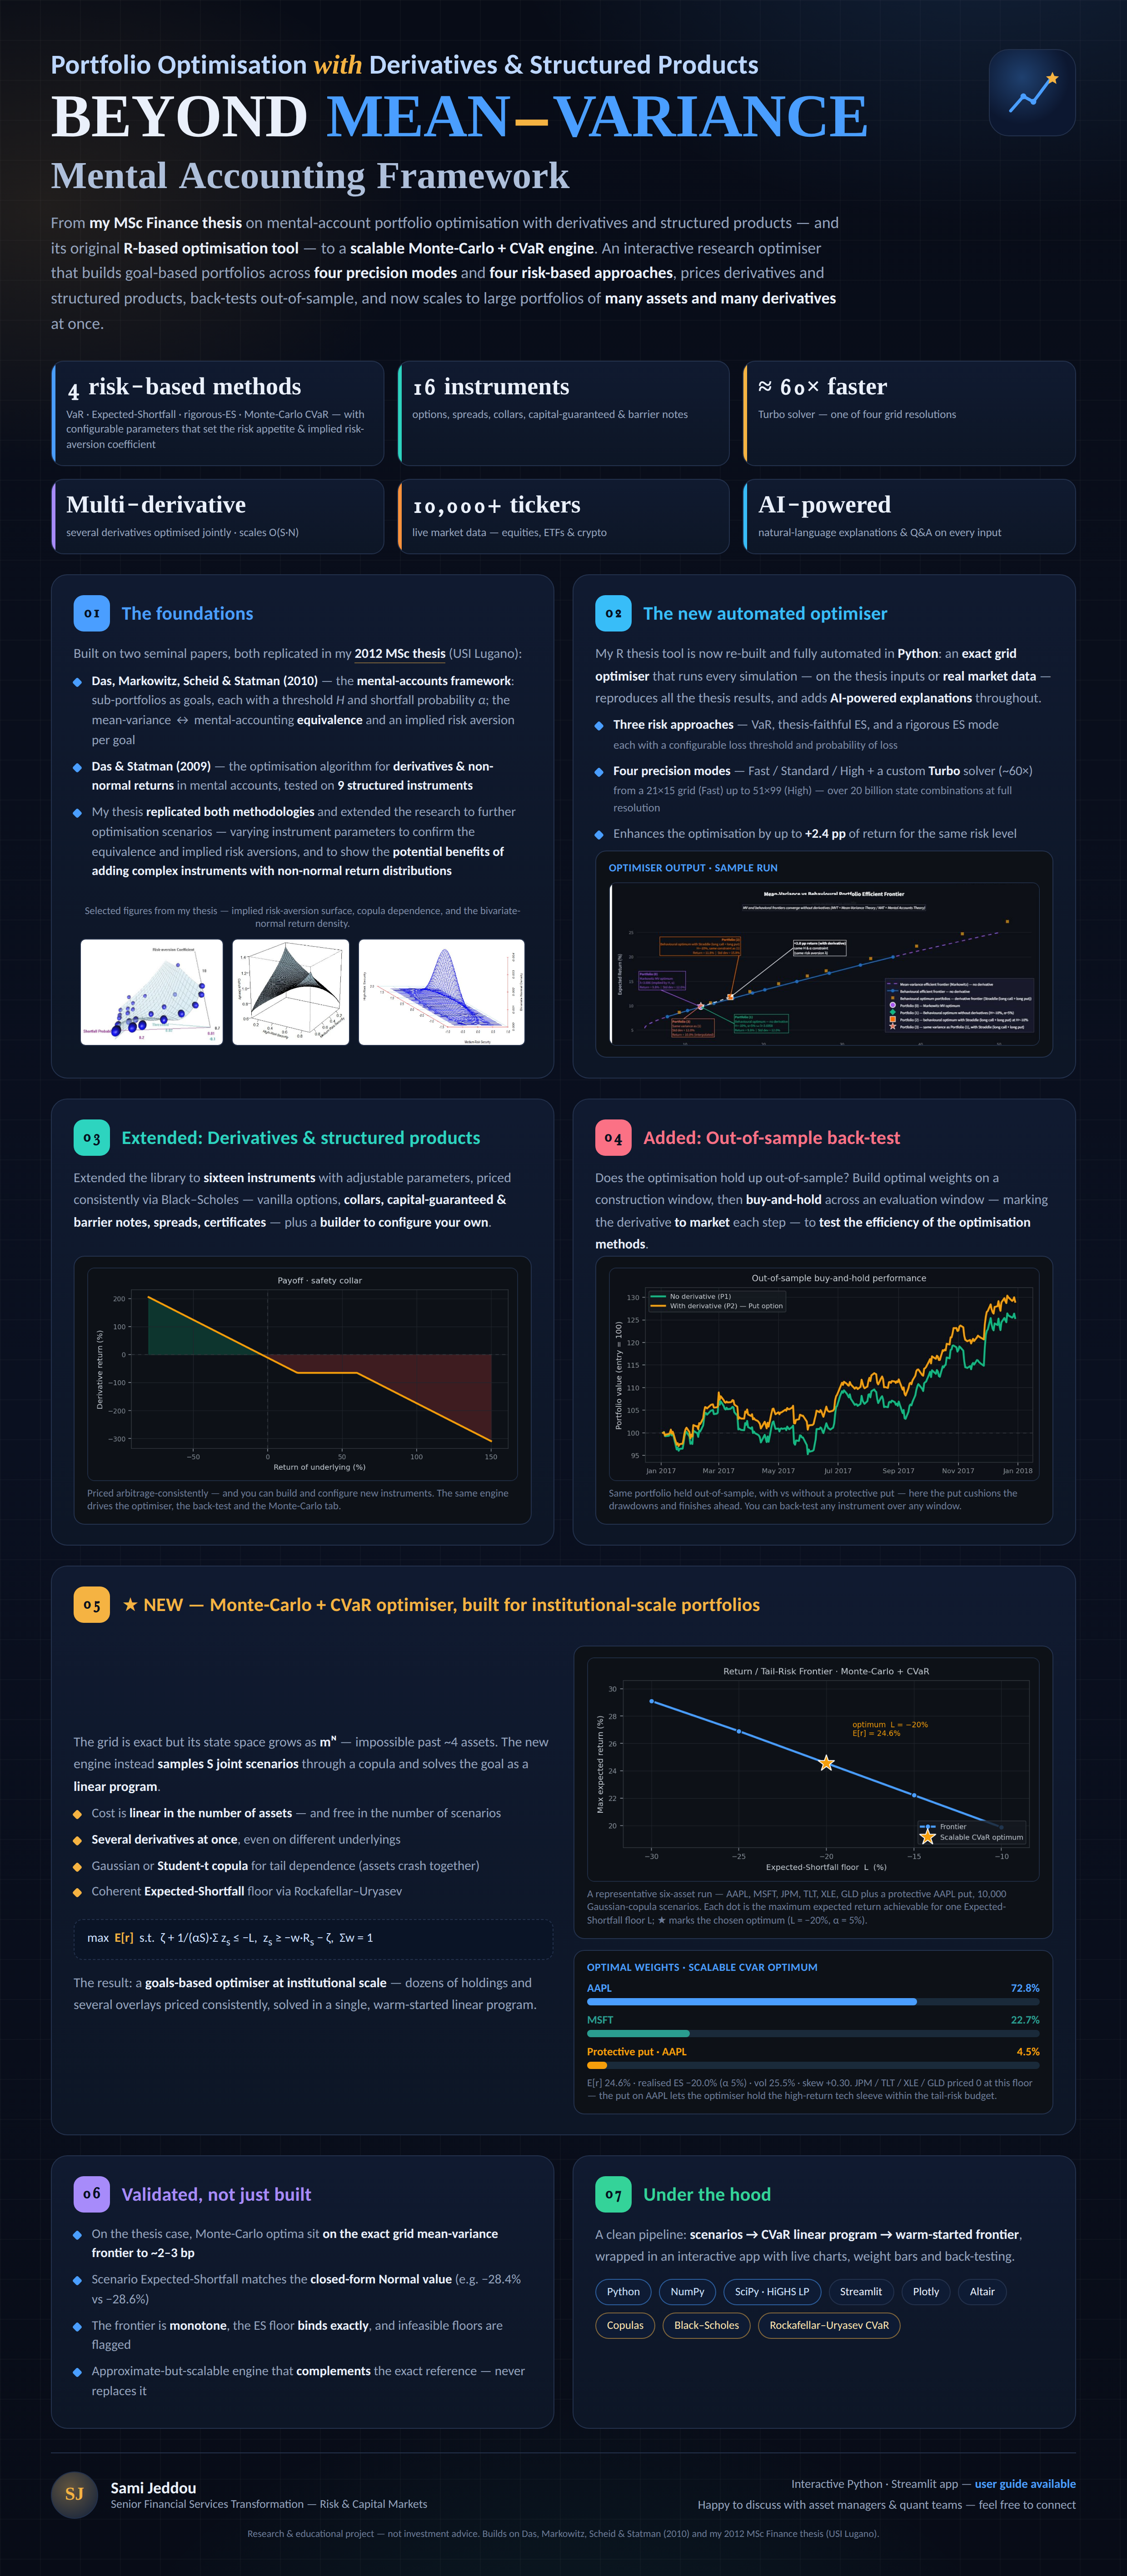
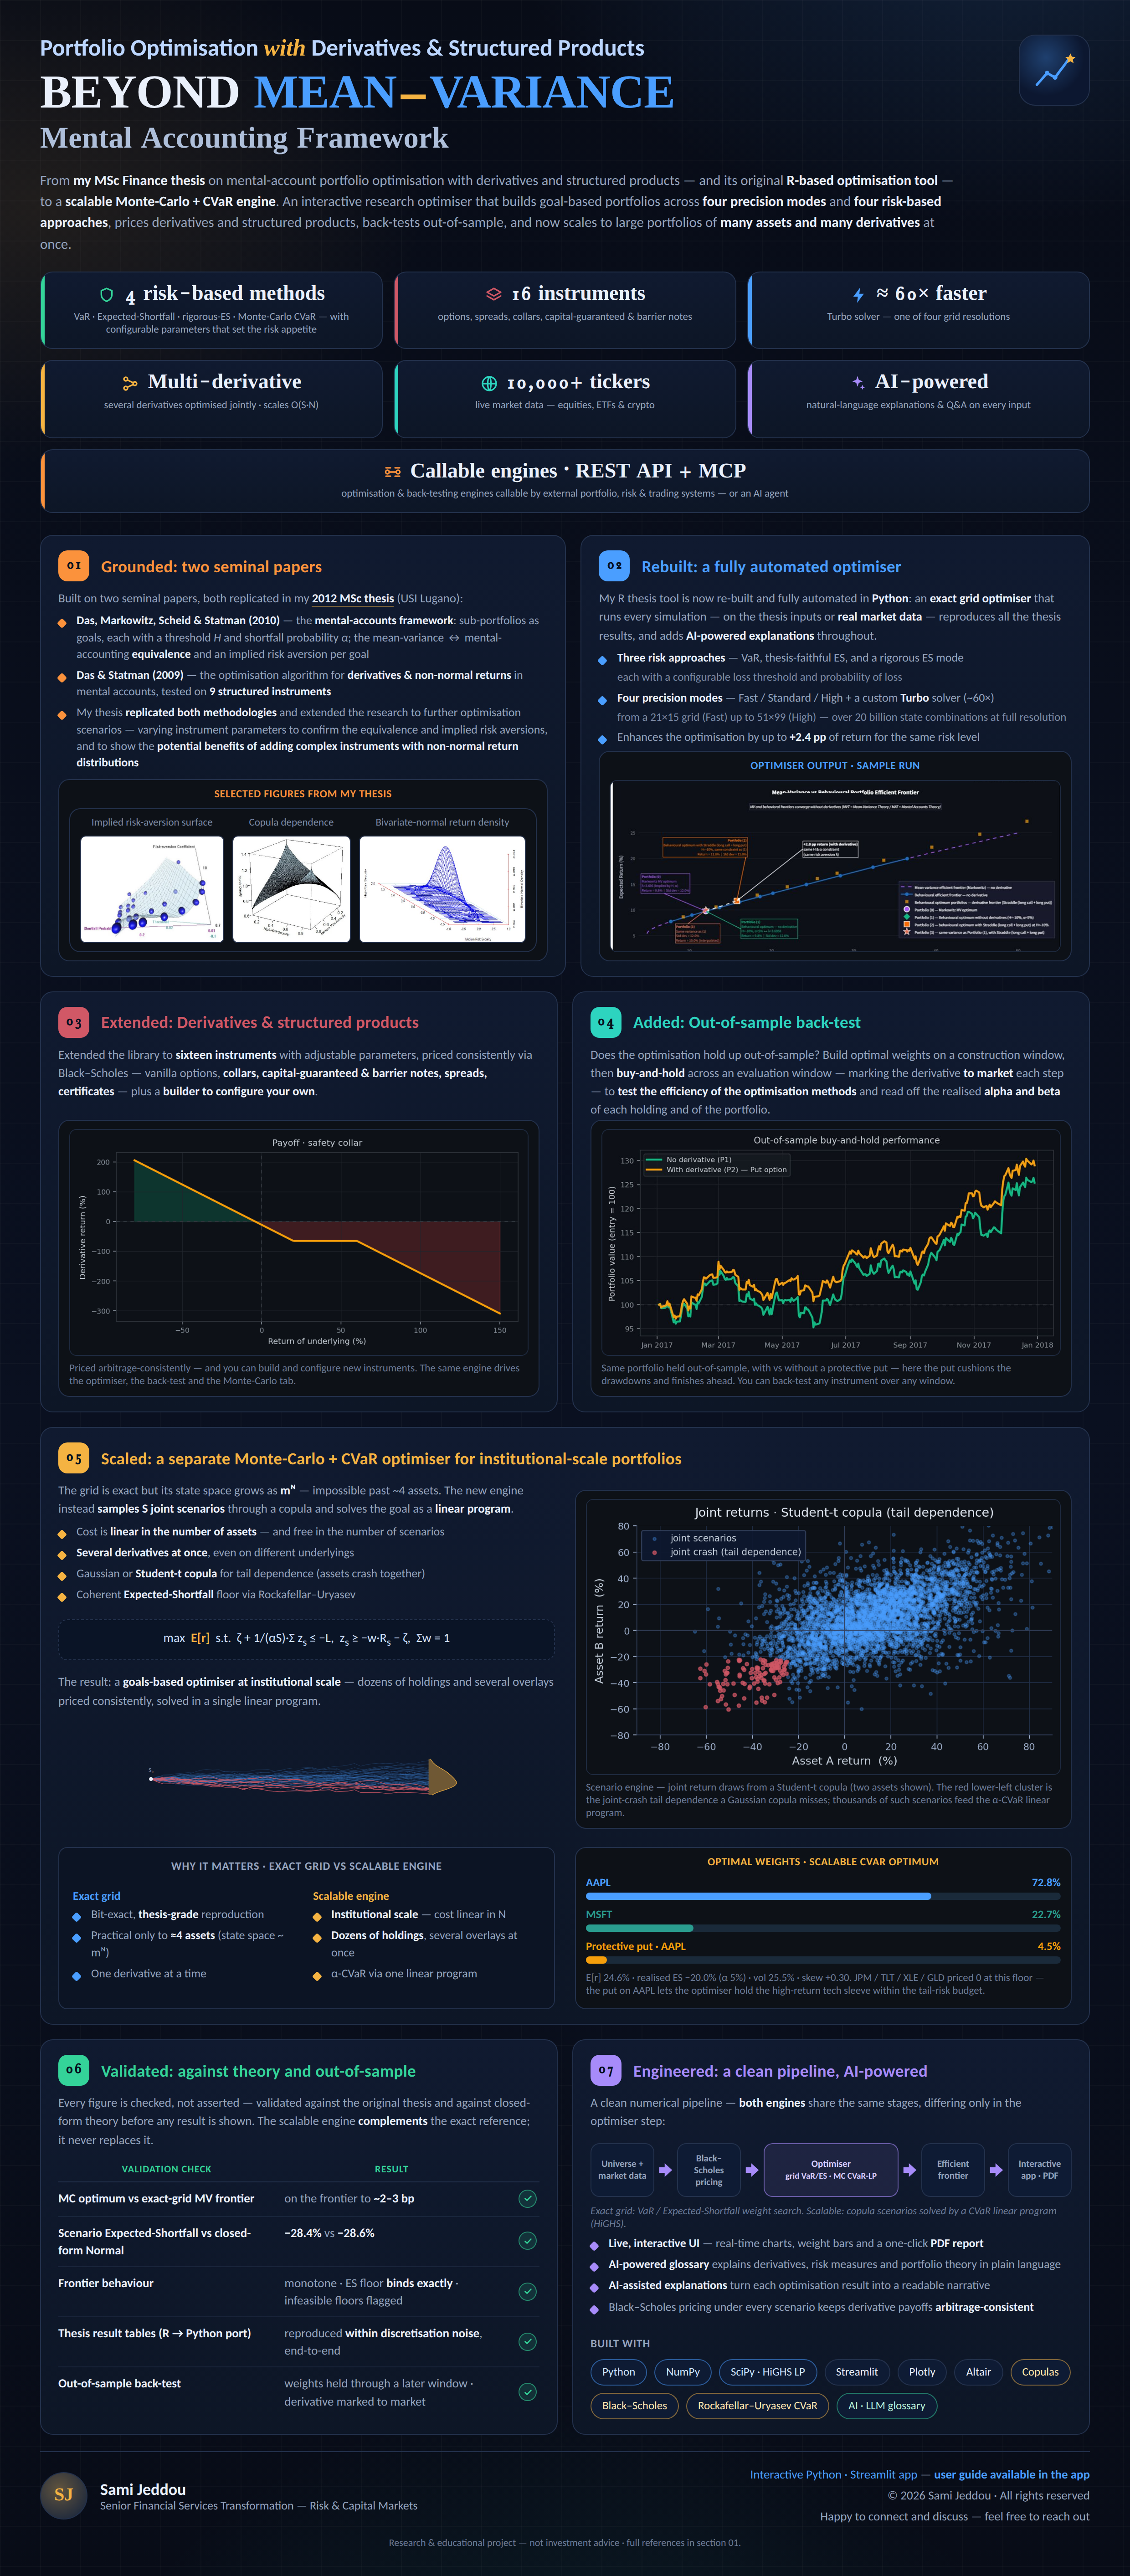
Add files via upload

diff --git a/app.py b/app.py
@@ -1,3 +1,7 @@
+# © 2026 Sami Jeddou. All rights reserved.
+# Published publicly for demonstration and evaluation only — no license is granted.
+# Copying, modification, redistribution, or reuse (in whole or in part) without the
+# author's prior written permission is prohibited.
 """  # v4
 Behavioral Portfolio Optimizer — Streamlit Dashboard
 Full version with: live market data, manual input, CSV upload,
@@ -3768,7 +3772,7 @@ The chart shows the efficient frontiers and up to four portfolio markers (see sa
         '<div style="text-align:center;color:#556a8a;font-size:.75rem;margin-top:2rem;padding:.6rem">'
         '⚠️ For educational &amp; research purposes only — not financial advice. '
         'Based on Das &amp; Statman (2009), Das, Markowitz, Scheid &amp; Statman (2010) and Jeddou (2012). '
-        'See <b>About</b> tab for full disclaimer.</div>',
+        'See <b>About</b> tab for full disclaimer.<br>© 2026 Sami Jeddou · All rights reserved.</div>',
         unsafe_allow_html=True)
 
 elif _view == "scalable":

diff --git a/__init__.py b/__init__.py
@@ -1,3 +1,7 @@
+# © 2026 Sami Jeddou. All rights reserved.
+# Published publicly for demonstration and evaluation only — no license is granted.
+# Copying, modification, redistribution, or reuse (in whole or in part) without the
+# author's prior written permission is prohibited.
 """Beyond Mean-Variance — UI-free compute core.
 
 Importing from `core` must never pull in Streamlit. The Streamlit app, a REST API,

diff --git a/behavioral_portfolio_optimizer.py b/behavioral_portfolio_optimizer.py
@@ -1,3 +1,7 @@
+# © 2026 Sami Jeddou. All rights reserved.
+# Published publicly for demonstration and evaluation only — no license is granted.
+# Copying, modification, redistribution, or reuse (in whole or in part) without the
+# author's prior written permission is prohibited.
 """
 Behavioral Portfolio Optimizer — Python Translation
 ====================================================

diff --git a/es_rigorous.py b/es_rigorous.py
@@ -1,3 +1,7 @@
+# © 2026 Sami Jeddou. All rights reserved.
+# Published publicly for demonstration and evaluation only — no license is granted.
+# Copying, modification, redistribution, or reuse (in whole or in part) without the
+# author's prior written permission is prohibited.
 """
 Rigorous Expected-Shortfall mode  (a beyond-thesis enhancement).
 

diff --git a/main.py b/main.py
@@ -1,3 +1,7 @@
+# © 2026 Sami Jeddou. All rights reserved.
+# Published publicly for demonstration and evaluation only — no license is granted.
+# Copying, modification, redistribution, or reuse (in whole or in part) without the
+# author's prior written permission is prohibited.
 """REST adapter — exposes the Beyond Mean-Variance engines over HTTP.
 
 A thin translation layer: JSON request -> typed core dataclasses -> engine wrapper ->

diff --git a/mc_cvar_optimizer.py b/mc_cvar_optimizer.py
@@ -1,3 +1,7 @@
+# © 2026 Sami Jeddou. All rights reserved.
+# Published publicly for demonstration and evaluation only — no license is granted.
+# Copying, modification, redistribution, or reuse (in whole or in part) without the
+# author's prior written permission is prohibited.
 """
 mc_cvar_optimizer.py
 ====================

diff --git a/render_poster.py b/render_poster.py
@@ -1,3 +1,7 @@
+# © 2026 Sami Jeddou. All rights reserved.
+# Published publicly for demonstration and evaluation only — no license is granted.
+# Copying, modification, redistribution, or reuse (in whole or in part) without the
+# author's prior written permission is prohibited.
 # Re-render poster.html -> poster.png (2x) and poster.pdf, matching the original pipeline.
 # Requires: pip install playwright ; python -m playwright install chromium
 from playwright.sync_api import sync_playwright

diff --git a/stress_test_turbo.py b/stress_test_turbo.py
@@ -1,3 +1,7 @@
+# © 2026 Sami Jeddou. All rights reserved.
+# Published publicly for demonstration and evaluation only — no license is granted.
+# Copying, modification, redistribution, or reuse (in whole or in part) without the
+# author's prior written permission is prohibited.
 """
 Stress test: Turbo (coarse-to-fine) vs the exhaustive grid solver.
 

diff --git a/turbo_optimizer.py b/turbo_optimizer.py
@@ -1,3 +1,7 @@
+# © 2026 Sami Jeddou. All rights reserved.
+# Published publicly for demonstration and evaluation only — no license is granted.
+# Copying, modification, redistribution, or reuse (in whole or in part) without the
+# author's prior written permission is prohibited.
 """
 Turbo optimiser — a fast, drop-in alternative to optimize_portfolio that
 reproduces the High-precision (m=51, m'=99) result in ~seconds.

diff --git a/README.md b/README.md
@@ -2,6 +2,8 @@
 
 > Extending Markowitz mean-variance theory to portfolios with derivatives and structured products using a mental-accounting framework.
 
+**© 2026 Sami Jeddou — All rights reserved.** Published publicly for demonstration and evaluation only; **no license is granted** (see [LICENSE](LICENSE)). No copying, modification, redistribution, or reuse without the author's prior written permission.
+
 ![Portfolio Optimiser Output — annotated sample showing each section of a run (chart, summary of portfolios, and per-portfolio details); illustrative only, not live results](sample_output_annotated.png)
 
 ---
@@ -287,4 +289,6 @@ It is provided for **educational and research purposes only** and does not const
 
 ## License
 
-MIT License — see [LICENSE](LICENSE) for details.
+© 2026 Sami Jeddou. **All rights reserved** — see [LICENSE](LICENSE).
+
+This repository is shared publicly for demonstration and evaluation only. No license is granted: you may view the code, but may not copy, modify, redistribute, or use it (in whole or in part) without the author's prior written permission.